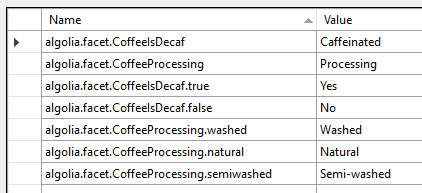
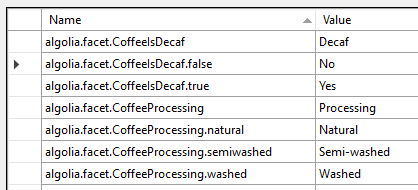
fix decaf facet example

Changed region(s): [[0.0, 0.0263, 1.0, 1.0]]

diff --git a/README.md b/README.md
@@ -32,6 +32,8 @@ This integration uses a code-first approach to define Algolia indexes. A single 
 
 We recommend that your developers create a new [.NET Standard 2.0](https://docs.microsoft.com/en-us/dotnet/standard/net-standard) Class Library project to contain the Algolia search models they will create. This project can be referenced by both the CMS and .NET Core projects, allowing developers to reference the stongly-typed search models in each application. As a result, your developers can utilize Algolia's [POCO philosophy](https://www.algolia.com/doc/api-client/getting-started/install/csharp/?client=csharp#poco-types-and-jsonnet) while creating the search interface.
 
+> :warning: When developing the .NET Standard Class Library project, remember to add `[assembly: CMS.AssemblyDiscoverable]` your code! See [Adding custom assemblies](https://docs.xperience.io/custom-development/adding-custom-assemblies).
+
 ## :gear: Creating and registering an Algolia index
 
 An Algolia index and its attributes are defined within a single class file, in which your custom class extends [`AlgoliaSearchModel`](https://github.com/Kentico/xperience-algolia/blob/master/src/Models/AlgoliaSearchModel.cs). Within the class, you define the attributes of the index by creating properties which match the names of Xperience page fields to index. The Xperience fields available may come from the `TreeNode` object, `SKUTreeNode` for products, or any custom page type fields.
@@ -327,7 +329,7 @@ Algolia provides [autocomplete](https://www.algolia.com/doc/ui-libraries/autocom
 ```
 
 3. From the [Algolia dashboard](https://www.algolia.com/dashboard), open your application and click "API keys" to find your keys.
-4. Still in _\_Layout.cshtml_, add javascript to the `<head>` which loads your Algolia index. Be sure to use your __Search API Key__ which is public, and _not_ your __Admin API Key__!
+4. Still in _\_Layout.cshtml_, add javascript near the end of the `<body>` which loads your Algolia index. Be sure to use your __Search API Key__ which is public, and _not_ your __Admin API Key__!
 
 ```js
 <script type="text/javascript">
@@ -896,6 +898,8 @@ var results = searchIndex.Search<AlgoliaSiteSearchModel>(query, new RequestOptio
 ## :chart_with_upwards_trend: Xperience Algolia module
 
 While the Xperience Algolia integration works without an Xperience interface, you may choose to import a custom module into your Xperience website to improve your user's experience. To do so, locate the latest _Kentico.Xperience.AlgoliaSearch_ ZIP package in the root of this repository, download it, and [import it into your Xperience website](https://docs.xperience.io/deploying-websites/exporting-and-importing-sites/importing-a-site-or-objects).
+
+After importing, perform the [necessary steps](https://docs.xperience.io/deploying-websites/exporting-and-importing-sites/importing-a-site-or-objects#Importingasiteorobjects-Importingpackageswithfiles) to include the imported folder `/CMSModules/Kentico.Xperience.AlgoliaSearch` in your project.
 
 ![Algolia module grid](/img/index-grid.png)
 
